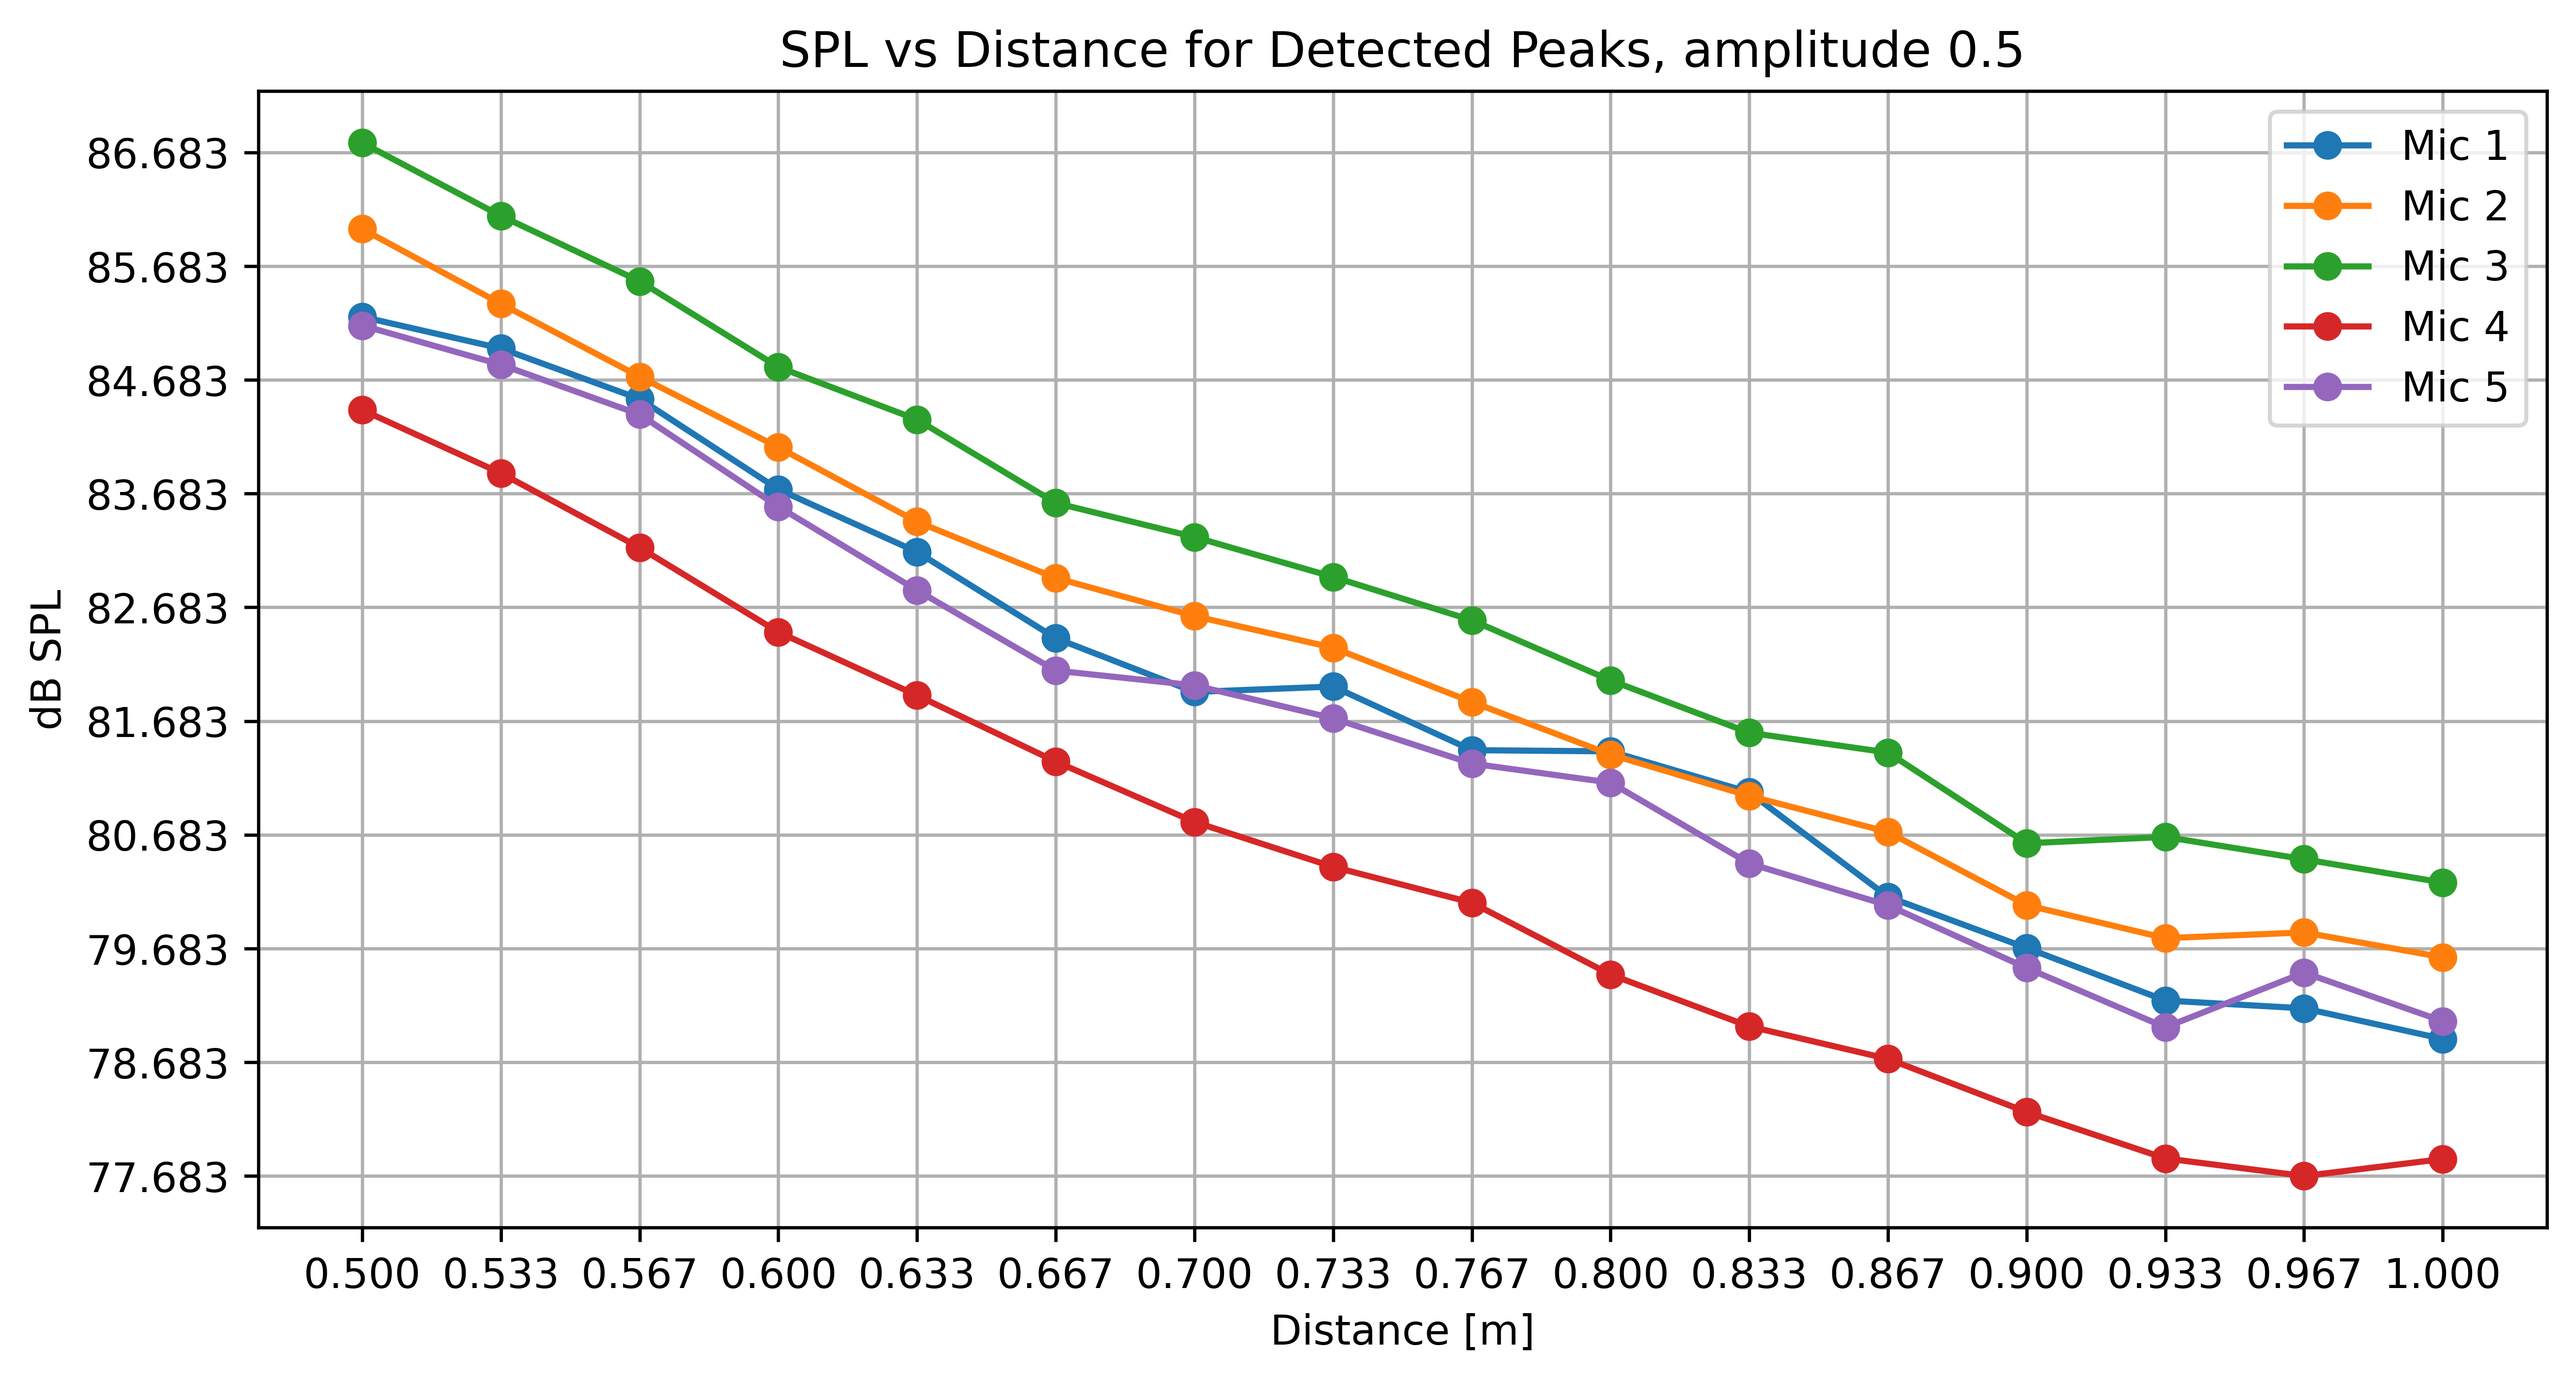
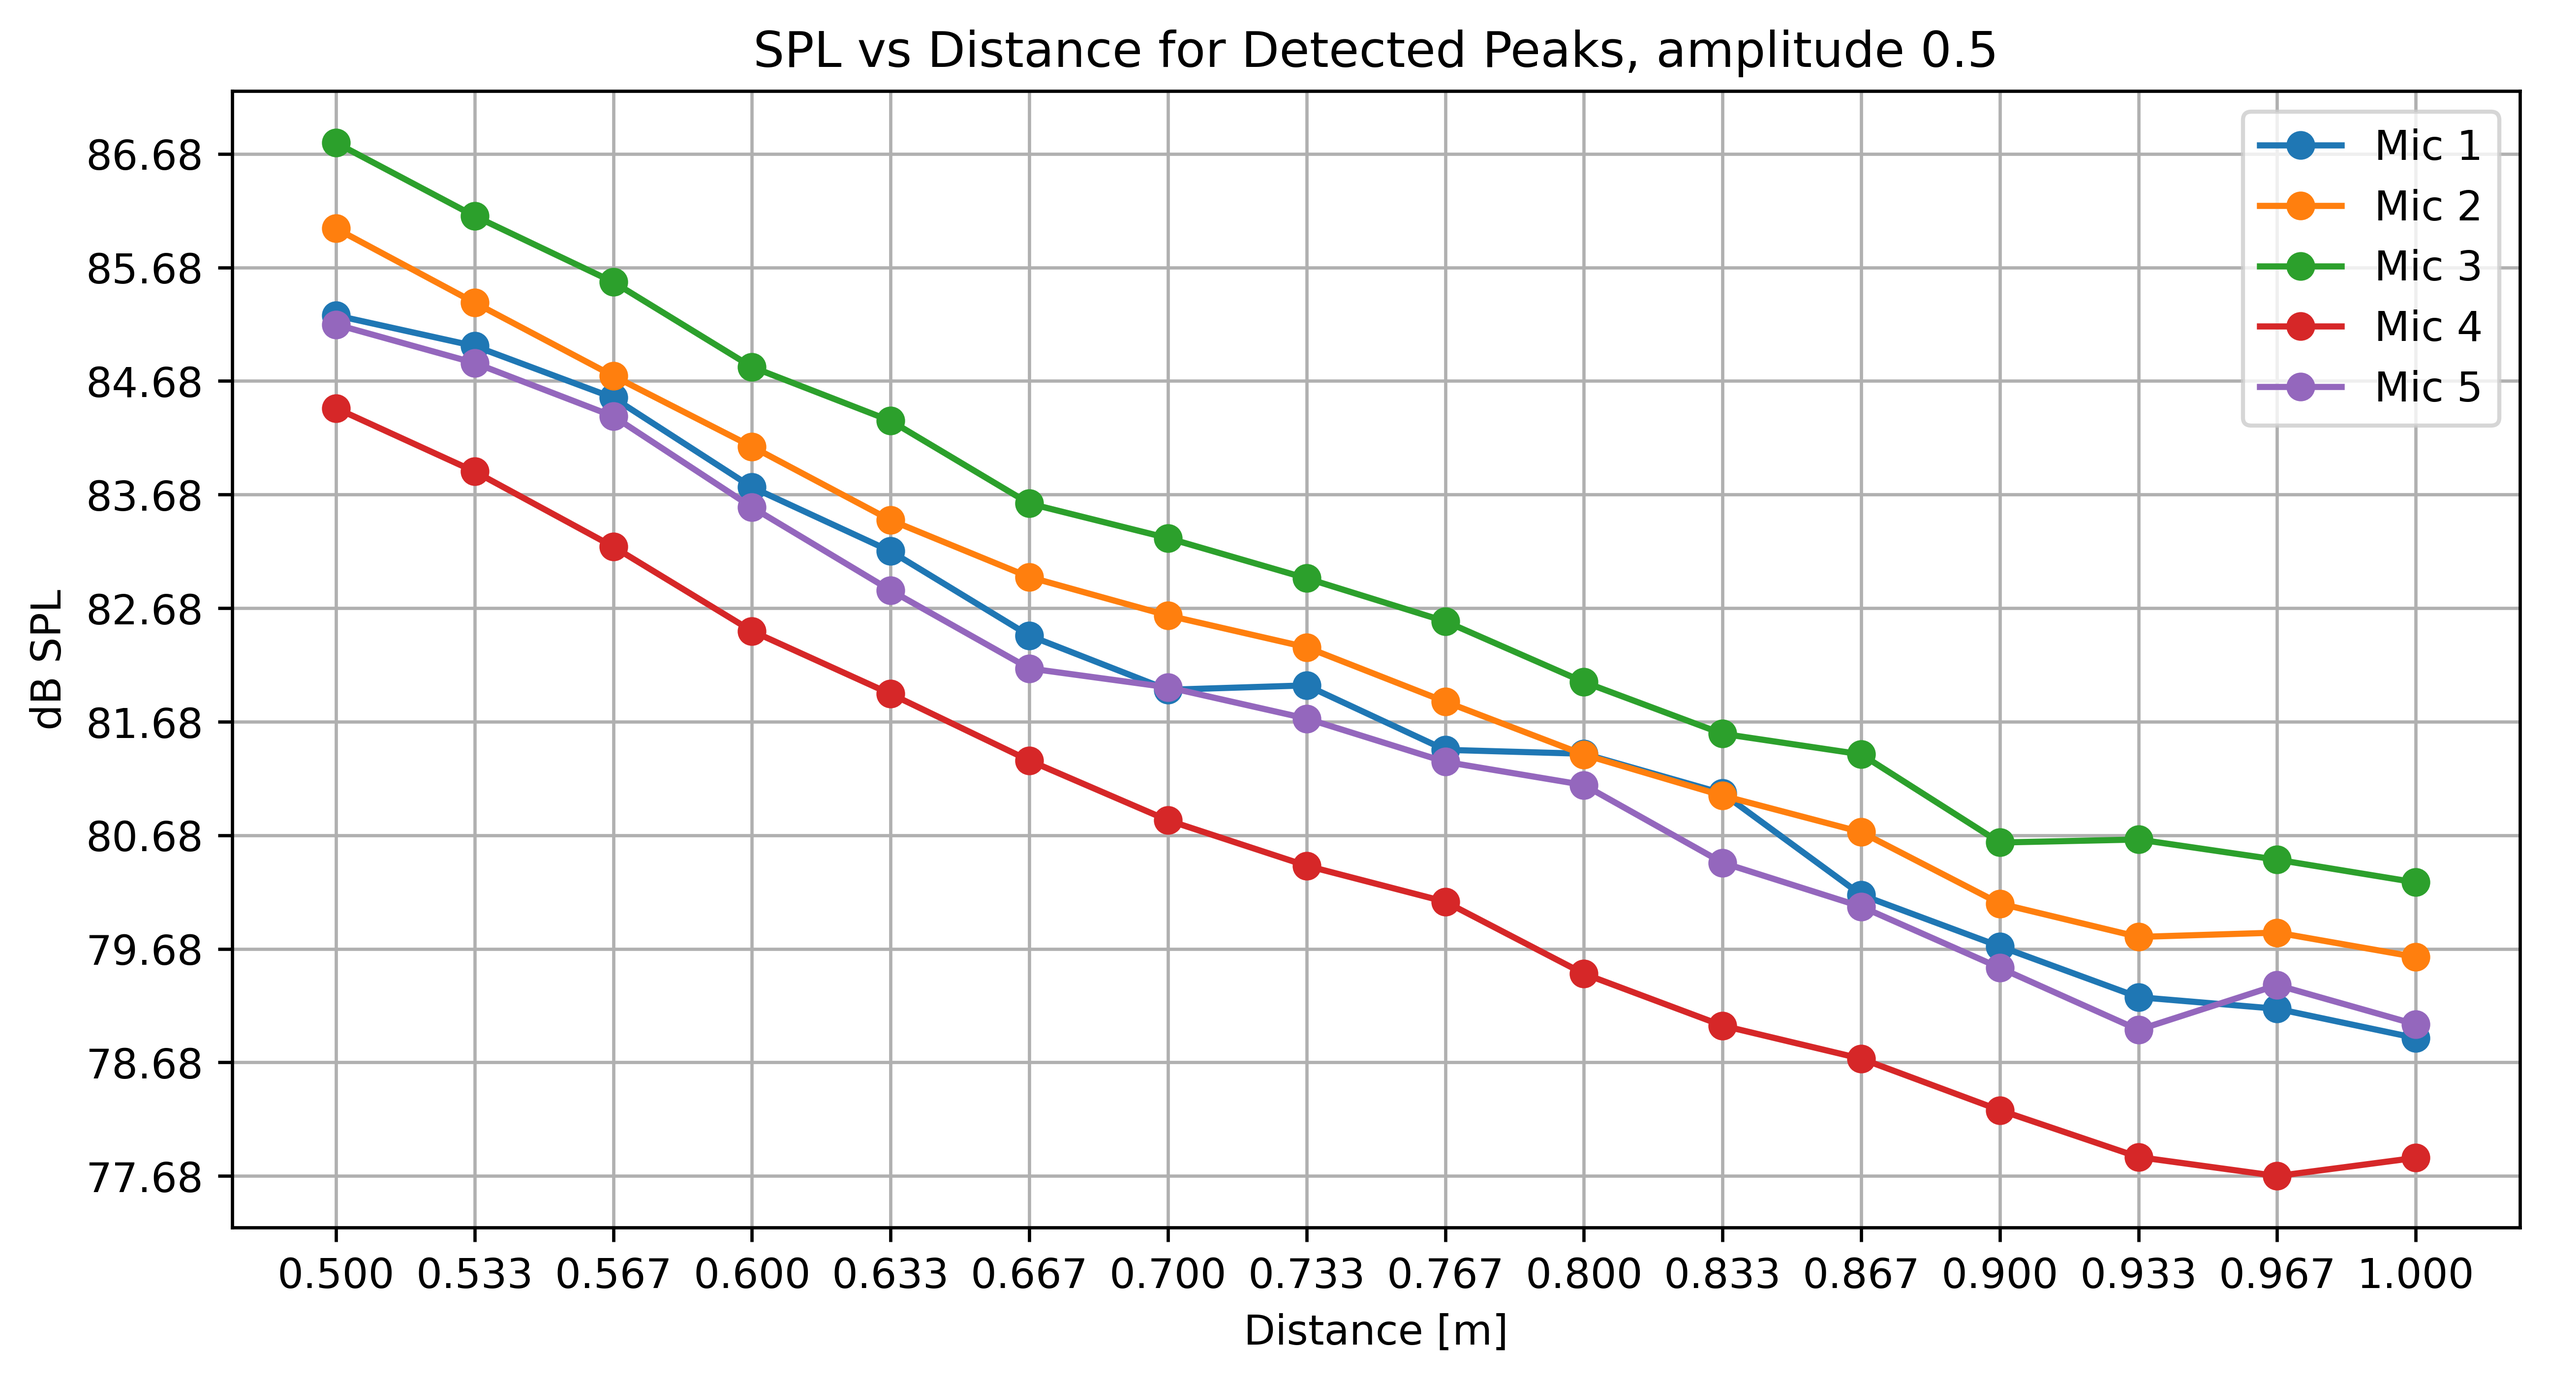
small fixes

diff --git a/measurements/z723/video_checks/linear_move_SPL_check.py b/measurements/z723/video_checks/linear_move_SPL_check.py
@@ -25,7 +25,7 @@ from utilities import *
 video_DIR = '/home/alberto/Videos/GOPRO/2025-06-18/'
 audio_DIR = './2025-06-18/'
 
-amplitude = 1
+amplitude = 0.5
 
 if amplitude == 1:
     video_name = np.array(['GX010558.MP4','GX010559.MP4',]) # run1, amplitude 1
@@ -75,21 +75,21 @@ for mic_num in range(5):
 
     # result plots
     plt.figure(figsize=(15, 15),)
+    plt.yticks([])
 
     plt.subplot(3, 1, 1, sharex=plt.gca())
     plt.plot(time_camera, camera_audio)
     plt.title('Camera Audio')
-    plt.xlabel('Distance [m]')
     plt.ylabel('Amplitude')
     plt.grid()
 
     plt.subplot(3, 1, 2, sharex=plt.gca())
     plt.plot(time_robot, robot_audio_delayed)
     plt.axvline(time_1m_mark, color = 'c', linestyle='-', label='1m Mark')
-    plt.axvline(time_05m_mark, color='b', linestyle='-', label='0.5m Mark')
+    plt.axvline(time_05m_mark, color='orange', linestyle='-', label='0.5m Mark')
     plt.title('Robot Audio')
-    plt.xlabel('Time [s]')
     plt.ylabel('Amplitude')
+    plt.legend()
     plt.grid()
 
     plt.subplot(3, 1, 3, sharex=plt.gca())
@@ -101,8 +101,6 @@ for mic_num in range(5):
     plt.ylabel('Correlation')
     plt.legend()
     plt.grid()
-
-    plt.tight_layout()
 
     plt.show(block=False)
 
@@ -136,6 +134,10 @@ for mic_num in range(5):
     chirp_template = chirp_template[int(0.1*fs_chirp): int((0.1+chirp_len)*fs_chirp)] 
 
     plt.plot(np.arange(0, len(chirp_template)) / fs_chirp, chirp_template)
+    plt.grid()
+    plt.title('Chirp Template')
+    plt.xlabel('Time [s]')
+    plt.ylabel('Amplitude')
     robot_audio_matched = matched_filter(robot_audio_trim, chirp_template)
 
     peaks = detect_peaks(robot_audio_matched, fs)
@@ -147,10 +149,11 @@ for mic_num in range(5):
     plt.subplot(2, 1, 1)
     plt.plot(np.linspace(0, len(robot_audio_matched) / fs, len(robot_audio_matched)), robot_audio_matched)
     plt.plot(peaks/fs, robot_audio_matched[peaks], 'ro')
-    plt.title('Matched Filter Output - GRAS')
+    plt.title('Matched Filter Output')
     plt.xlabel('Time [s]')
     plt.ylabel('Amplitude')
     plt.tight_layout()
+    plt.grid()
     plt.show(block=False)
 
     # %%
@@ -160,19 +163,31 @@ for mic_num in range(5):
     robot_audio_trim_1m = robot_audio_trim[(peaks[0]): int(peaks[0] + chirp_len*fs_chirp)]
     rms_1m = rms(robot_audio_trim_1m)
 
-    plt.plot(robot_audio_trim_1m)
+    # Plot the trimmed audio at 1m mark
+    plt.figure()
+    plt.plot(np.arange(len(robot_audio_trim_1m)) / fs, robot_audio_trim_1m)
+    plt.title('Trimmed Audio at 1m Mark')
+    plt.xlabel('Samples')
+    plt.ylabel('Amplitude')
+    plt.grid()
     plt.show(block=False)
+
         
     # peak at 0.5 m mark
     plt.figure()
     robot_audio_trim_05m = robot_audio_trim[(peaks[-1]): int(peaks[-1] + chirp_len*fs_chirp)]
     rms_05m = rms(robot_audio_trim_05m)
 
-    plt.plot(robot_audio_trim_05m)
+    # Plot the trimmed audio at 0.5m mark
+    plt.plot(np.arange(len(robot_audio_trim_05m)) / fs, robot_audio_trim_05m)
+    plt.xlabel('Time [ms]')
+    plt.title('Trimmed Audio at 0.5m Mark')
+    plt.xlabel('Samples')
+    plt.ylabel('Amplitude')
+    plt.grid()
     plt.show(block=False)
 
     # Analyze all detected peaks in the audio
-
     window_length = int(chirp_len * fs_chirp)  # 4 ms window
     audio_segments = []
     rms_values = []
@@ -186,15 +201,16 @@ for mic_num in range(5):
         rms_val = rms(segment)
         rms_values.append(rms_val)
 
-    print("RMS values for each detected peak:")
-    for i, val in enumerate(rms_values):
-        print(f"Peak {i+1}: RMS = {val}")
+    # print("RMS values for each detected peak:")
+    # for i, val in enumerate(rms_values):
+    #     print(f"Peak {i+1}: RMS = {val}")
 
     # For compatibility with later code, keep the first and last segments as 1m and 0.5m marks
     robot_audio_trim_1m = audio_segments[0]
     robot_audio_trim_05m = audio_segments[-1]
     rms_1m = rms_values[0]
     rms_05m = rms_values[-1]
+    
     # %%
     # upload array sensitivity
     sensitivity_path = '/home/alberto/Documents/ActiveSensingCollectives_lab/Ro-BATs/measurements/z723/array_calibration/226_238/Knowles_SPH0645LM4H-B_sensitivity.csv'
@@ -202,13 +218,16 @@ for mic_num in range(5):
     freqs = np.array(sensitivity.iloc[:, 0])  # first column contains frequencies
     sens_freqwise_rms = np.array(sensitivity.iloc[:, 1])  # Last column contains sensitivity values 
 
+    # Plot the uploaded sensitivity
     plt.figure(figsize=(15, 8))
     a0 = plt.subplot(211)
     plt.plot(freqs, sens_freqwise_rms)
-    plt.title(f' sensitivity')
+    plt.xlabel('Frequencies, Hz', fontsize=12);
+    plt.ylabel('dB a.u. rms/Pa', fontsize=12)
+    plt.title(f'Knowles SPH0645LM4H-B Sensitivity', fontsize=20)
     plt.grid()
-    plt.legend()
     plt.xticks(np.linspace(1000, 20000, 20), rotation=45)
+
     plt.subplot(212, sharex=a0)
     plt.plot(freqs, dB(sens_freqwise_rms))
     plt.xlabel('Frequencies, Hz', fontsize=12);
@@ -216,12 +235,12 @@ for mic_num in range(5):
     plt.grid()
     plt.xticks(np.linspace(1000, 20000, 20), rotation=45)
     plt.tight_layout()
-    plt.legend()
+    plt.show(block=False)
 
     recsound_centrefreqs_1m, freqwise_rms_1m = calc_native_freqwise_rms(robot_audio_trim_1m, fs)
     recsound_centrefreqs_05m, freqwise_rms_05m = calc_native_freqwise_rms(robot_audio_trim_05m, fs)
+    
     # Loop over all audio segments to compute SPL for each detected peak
-
     interp_sensitivity_1m = interpolate_freq_response([freqs, sens_freqwise_rms],
                             recsound_centrefreqs_1m)
     freqwise_Parms_1m = freqwise_rms_1m/interp_sensitivity_1m # go from rms to Pa(rmseq.)

diff --git a/measurements/z723/robat_speaker_calibration/dayton_audio_CE32A-4_sensitivity.py b/measurements/z723/robat_speaker_calibration/dayton_audio_CE32A-4_sensitivity.py
@@ -131,7 +131,7 @@ plt.show()
 # load the GRAS audio files
 gras_pbk_audio_or, fs = sf.read('./2025-06-11/in9_192khz_chA_+40db_1m.wav')
 
-chirp_to_use = 3
+chirp_to_use = 0
 
 # Apply the filter
 sos = signal.butter(2, cutoff, 'hp', fs=fs, output='sos')
@@ -298,7 +298,6 @@ plt.ylabel('a.u. RMS/Pa', fontsize=12)
 plt.xlabel('Frequencies, Hz', fontsize=12);
 plt.ylabel('Sound pressure level,\n dBrms SPL re 20$\mu$Pa', fontsize=12)
 plt.grid()
-plt.yticks(np.arange(-10,75,3))
 plt.xticks(np.linspace(1000, 20000, 20), rotation=45)
 plt.tight_layout()
 
@@ -306,7 +305,8 @@ plt.tight_layout()
 
 # Reference input signal (chirp)
 ref_pbk_audio = chirp[chirp_to_use]
-val_pbk_audio = chirp[chirp_to_use-2]
+# Validation input signal (chirp)
+val_pbk_audio = chirp[chirp_to_use+1]
 
 # Now measure chirp RMS over all frequency bands
 ref_pbk_centrefreqs, ref_pbk_freqrms = calc_native_freqwise_rms(ref_pbk_audio, fs)
@@ -374,50 +374,6 @@ plt.show()
 display(
     Image(filename="./dayton_audio_CE32A-4_freq_response.png", width=900),
 )
-# #%% 
-# # Here we load a separate 'recorded sound' - a 'validation' audio clip let's call it 
-# chirp_to_use += 1
-
-# #  Define the matched filter function
-# def matched_filter(recording, chirp_template):
-#     filtered_output = np.roll(signal.correlate(recording, chirp_template, 'same', method='direct'), -len(chirp_template)//2)
-#     filtered_output *= signal.windows.tukey(filtered_output.size, 0.1)
-#     filtered_envelope = np.abs(signal.hilbert(filtered_output))
-#     return filtered_envelope
-
-# # Detect peaks in the matched filter output
-# def detect_peaks(filtered_output, sample_rate):
-#     peaks, properties = signal.find_peaks(filtered_output, prominence=0.2, distance=0.2* sample_rate)
-#     return peaks
-
-# gras_pbk_audio_filt = gras_pbk_audio_filt[int(peaks_gras[amplitude_index]-1*fs):-1*fs] 
-
-# gras_pbk_audio_matched = matched_filter(gras_pbk_audio_filt, chirp[chirp_to_use])
-
-# # Detect peaks
-# peaks_gras = detect_peaks(gras_pbk_audio_matched, fs)
-# print(f"Detected peaks: gras = {len(peaks_gras)}")
-
-# # plot the peaks
-# plt.figure(figsize=(15, 5))
-# plt.subplot(2, 1, 1)
-# plt.plot(np.linspace(0, len(gras_pbk_audio_matched) / fs, len(gras_pbk_audio_matched)), gras_pbk_audio_matched)
-# plt.plot(peaks_gras/fs, gras_pbk_audio_matched[peaks_gras], 'ro')
-# plt.title('Matched Filter Output - GRAS')
-# plt.xlabel('Time [s]')
-# plt.ylabel('Amplitude')
-# plt.tight_layout()
-# plt.show()
-
-# gras_valid_rec = gras_pbk_audio_filt[int(peaks_gras[chirp_to_use]):int(peaks_gras[chirp_to_use]) + int(fs*durns[chirp_to_use])]
-
-# # Plot the playback signals
-# plt.figure(figsize=(10,5))
-# plt.plot(np.linspace(0,len(gras_valid_rec)/fs, len(gras_valid_rec)) ,gras_valid_rec)
-# plt.title('Validation signal from GRAS mic')
-# plt.grid()
-# plt.xlabel('Time [s]')
-# plt.ylabel('Amplitude', fontsize=12)
 
 
 #%%
@@ -427,7 +383,6 @@ display(
 # then you'll need to interpolate the sensitivity using interpolate_freq_response in the
 # utilities.py module
 
-#recsound_centrefreqs, freqwise_rms = calc_native_freqwise_rms(gras_valid_rec, fs)
 recsound_centrefreqs, freqwise_rms = calc_native_freqwise_rms(val_pbk_audio,fs)
 
 mask = (recsound_centrefreqs >= start_f) & (recsound_centrefreqs <= end_f)
@@ -489,7 +444,7 @@ idx_end = np.where(recsound_centrefreqs <= 20e3)[0][-1]
 print(f"starting freq = {3e3} Hz")
 print(f"ending freq = {20e3} Hz")
 diff = np.mean((pascal_to_dbspl(freqwise_Parms[idx_start:idx_end+1])-pascal_to_dbspl(gras_freqParms_int[idx_start:idx_end+1])))
-print(f'Calculated difference: {diff}\n!! We expect the longer signal to have more energy so it should be positive !!')
+print(f'Calculated difference: {diff}\n')
 #%%
 # Now we know the sensitivity of the target mic - let's finally calculate
 # the dB SPL of the recorded sound!
@@ -498,7 +453,7 @@ print(f'Calculated difference: {diff}\n!! We expect the longer signal to have mo
 
 frequency_band = [0.2e3, 24e3] # min, max frequency to do the compensation Hz
 
-tgtmic_relevant_freqs = np.logical_and(gras_centrefreqs>=frequency_band[0],
+tgtmic_relevant_freqs = np.logical_and(gras_centrefreqs>=frequency_band[0], 
                                 gras_centrefreqs<=frequency_band[1])
 total_rms_freqwise_Parms = np.sqrt(np.sum(gras_freqParms[tgtmic_relevant_freqs]**2))
 
@@ -507,7 +462,7 @@ valid_tgtmic_relevant_freqs = np.logical_and(recsound_centrefreqs>=frequency_ban
 valid_total_rms_freqwise_Parms = np.sqrt(np.sum(freqwise_Parms[valid_tgtmic_relevant_freqs]**2))
 
 
-print(f'GRAS dBrms SPL measure: {pascal_to_dbspl(total_rms_freqwise_Parms)}')
-print(f'GRAS dBrms SPL measure: {pascal_to_dbspl(valid_total_rms_freqwise_Parms)}')
+print(f'Original dBrms SPL measure: {pascal_to_dbspl(total_rms_freqwise_Parms)}')
+print(f'Validation dBrms SPL measure: {pascal_to_dbspl(valid_total_rms_freqwise_Parms)}')
 
 # %%
